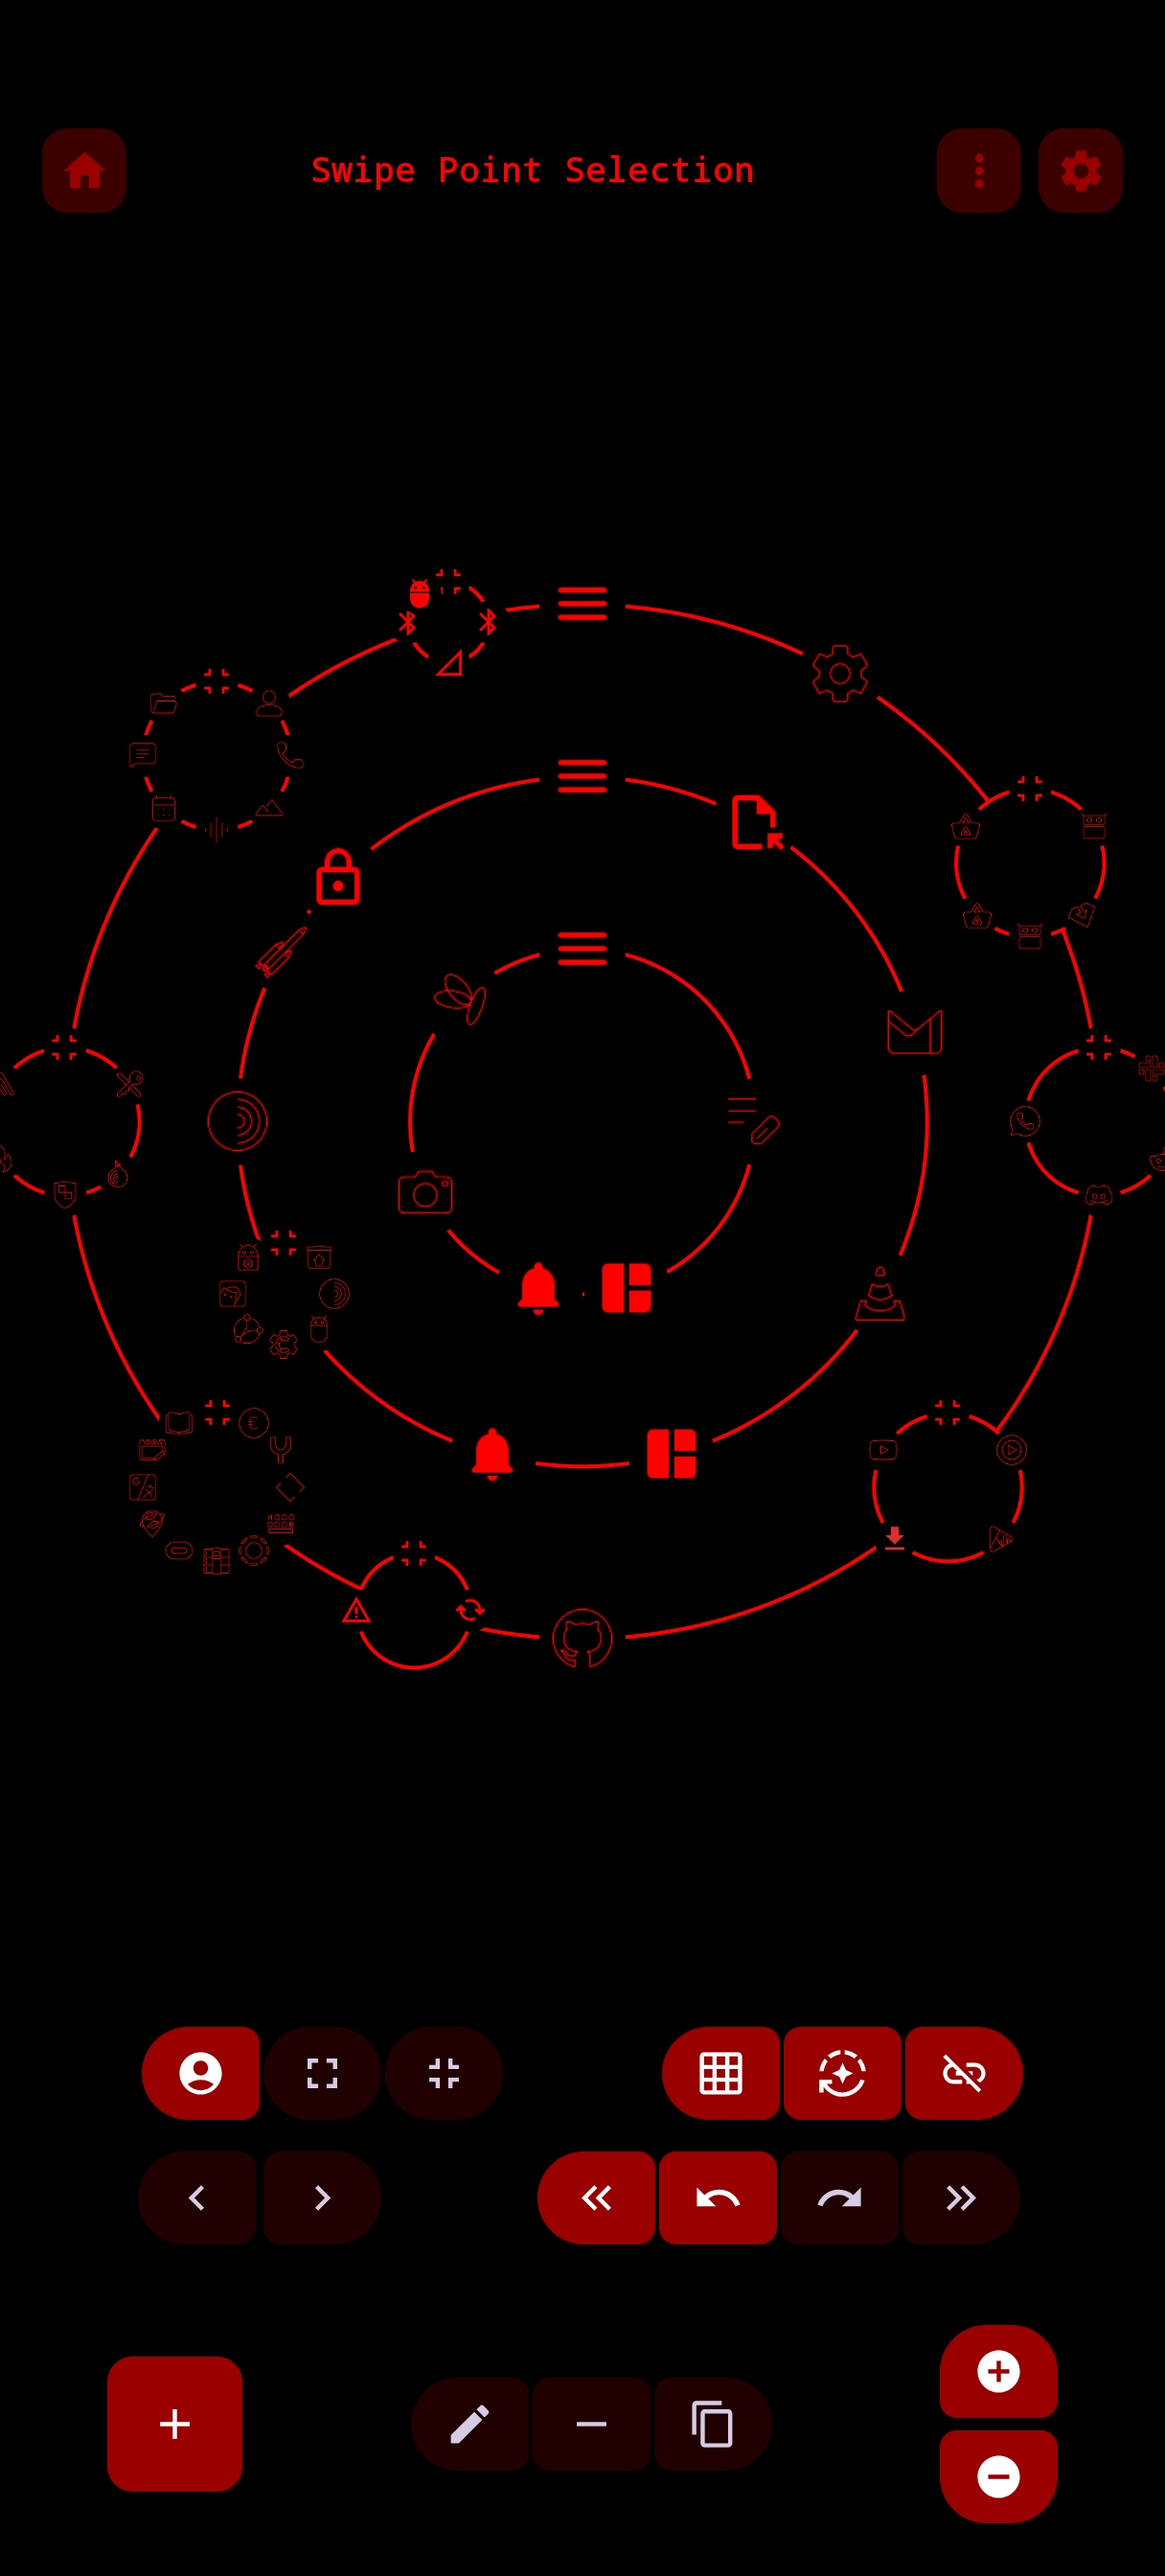
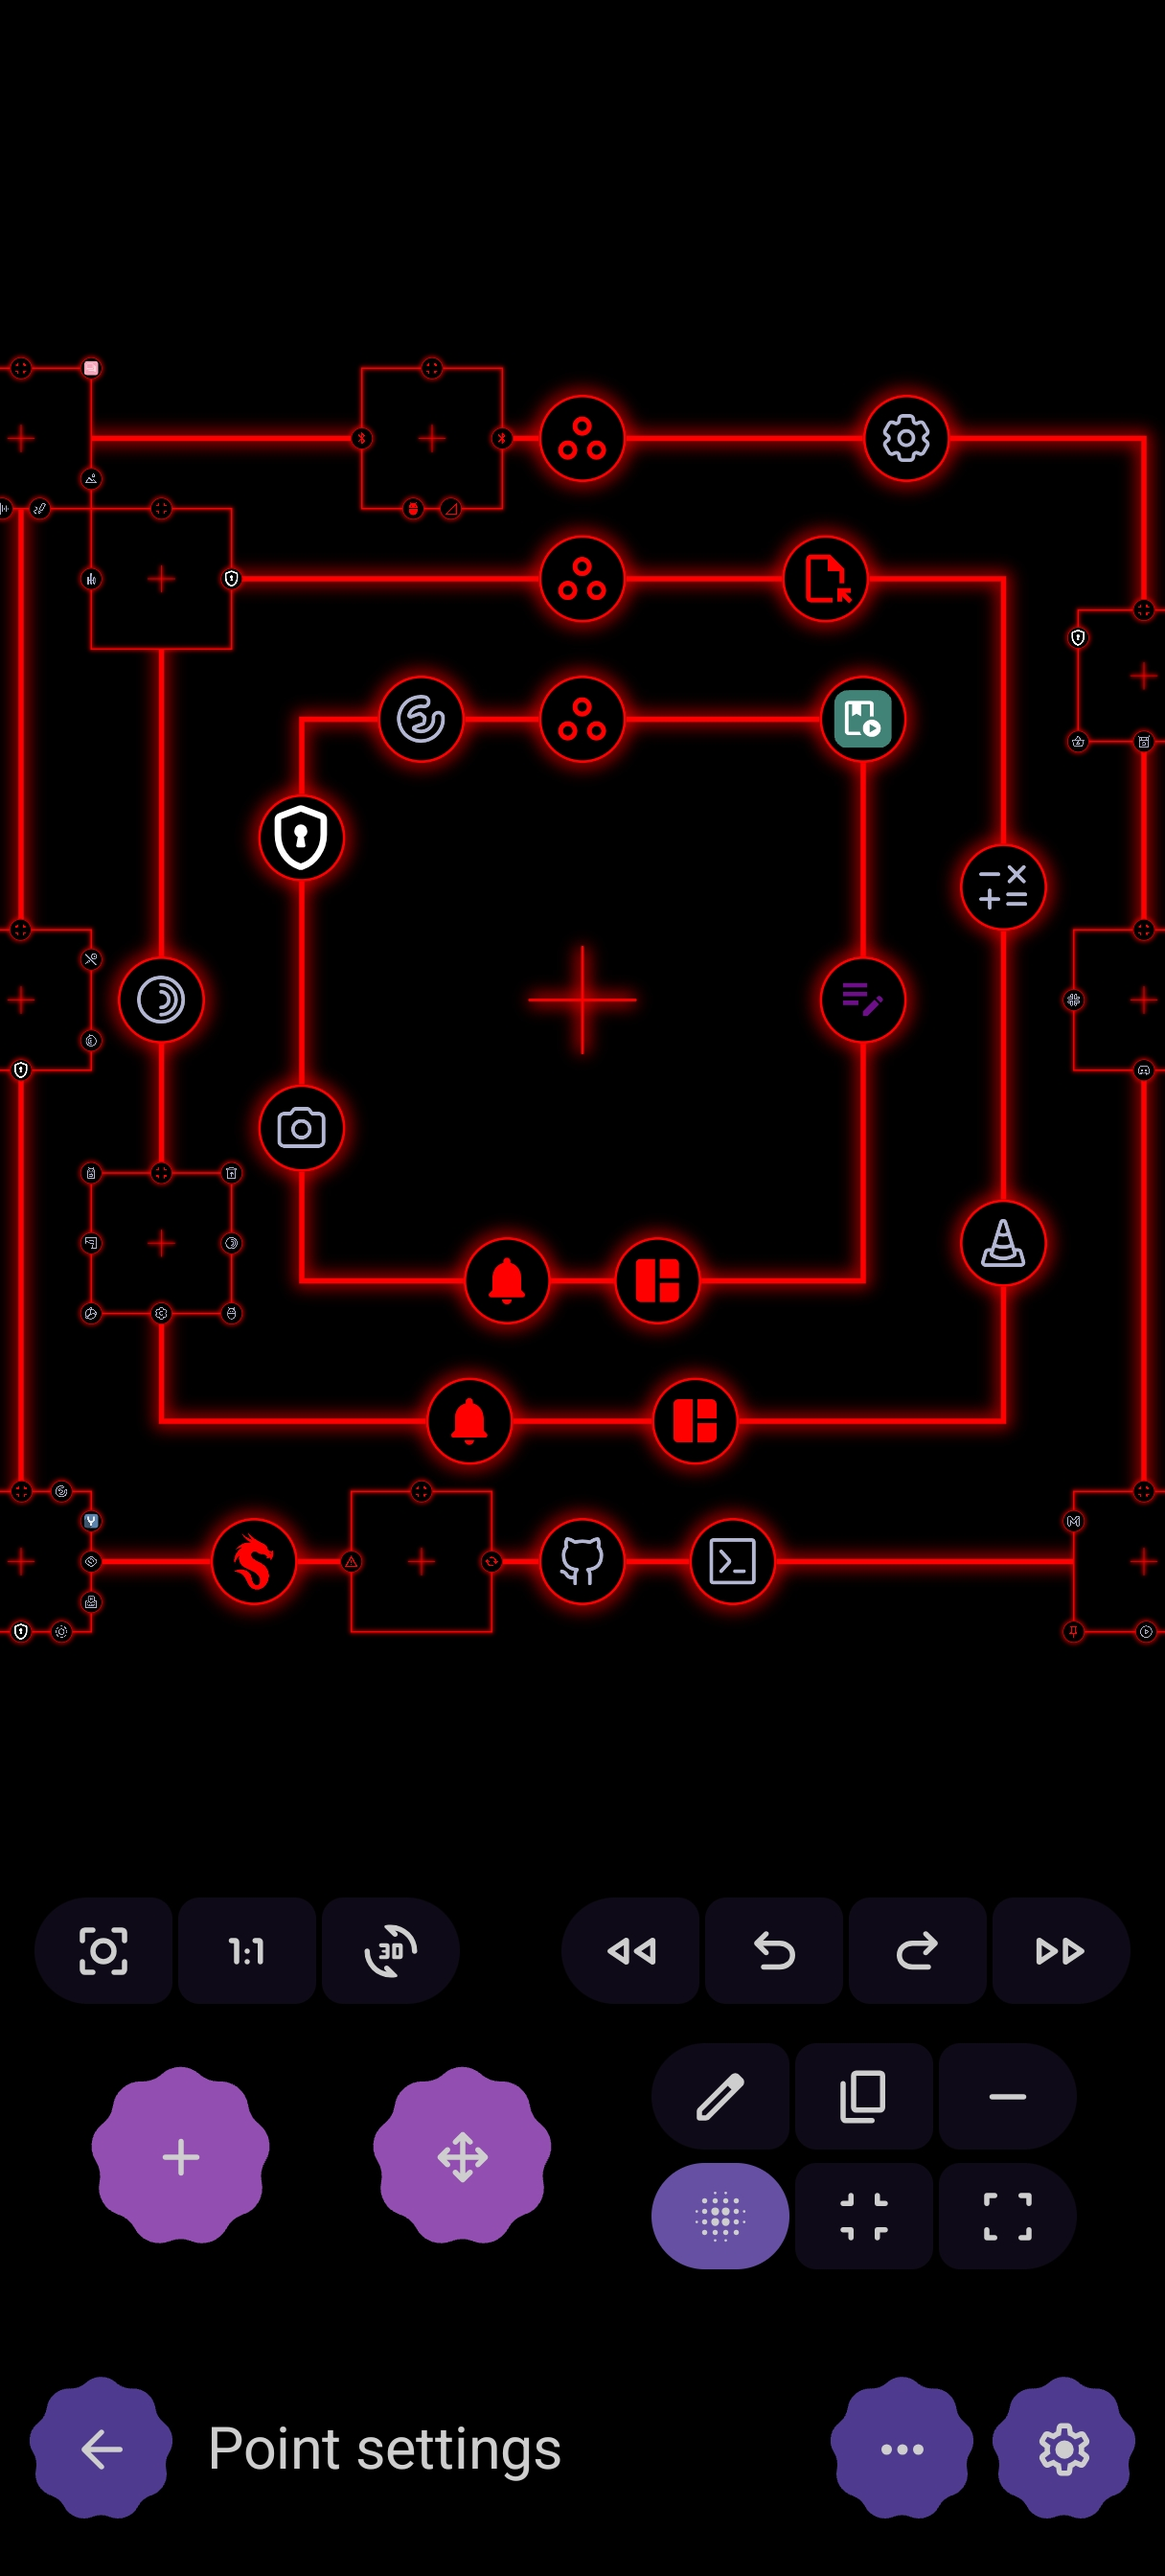
fix: add my new setup to screenshots and renames olders (kept them here to remember)

diff --git a/README.md b/README.md
@@ -133,7 +133,7 @@ Dragon Launcher is a launcher: some of the permissions below are required by And
 ## User Screenshots
 
 <p align="center">
-    <img src="https://raw.githubusercontent.com/Elnix90/Dragon-Launcher/main/assets/user-screenshots/elnix.webp" width="22%" alt="Elnix Screenshot"/>
+    <img src="https://raw.githubusercontent.com/Elnix90/Dragon-Launcher/main/assets/user-screenshots/elnix.jpg" width="22%" alt="Elnix Screenshot"/>
     <img src="https://raw.githubusercontent.com/Elnix90/Dragon-Launcher/main/assets/user-screenshots/red__velvet_demo.gif" width="22%" alt="rev__velvet Screenshot"/>
     <img src="https://raw.githubusercontent.com/Elnix90/Dragon-Launcher/main/assets/user-screenshots/ridwan.png" width="22%" alt="ridwan Screenshot"/>
     <img src="https://raw.githubusercontent.com/Elnix90/Dragon-Launcher/main/assets/user-screenshots/unknown_user_1.jpg" width="22%" alt="Unknown user Screenshot"/>
